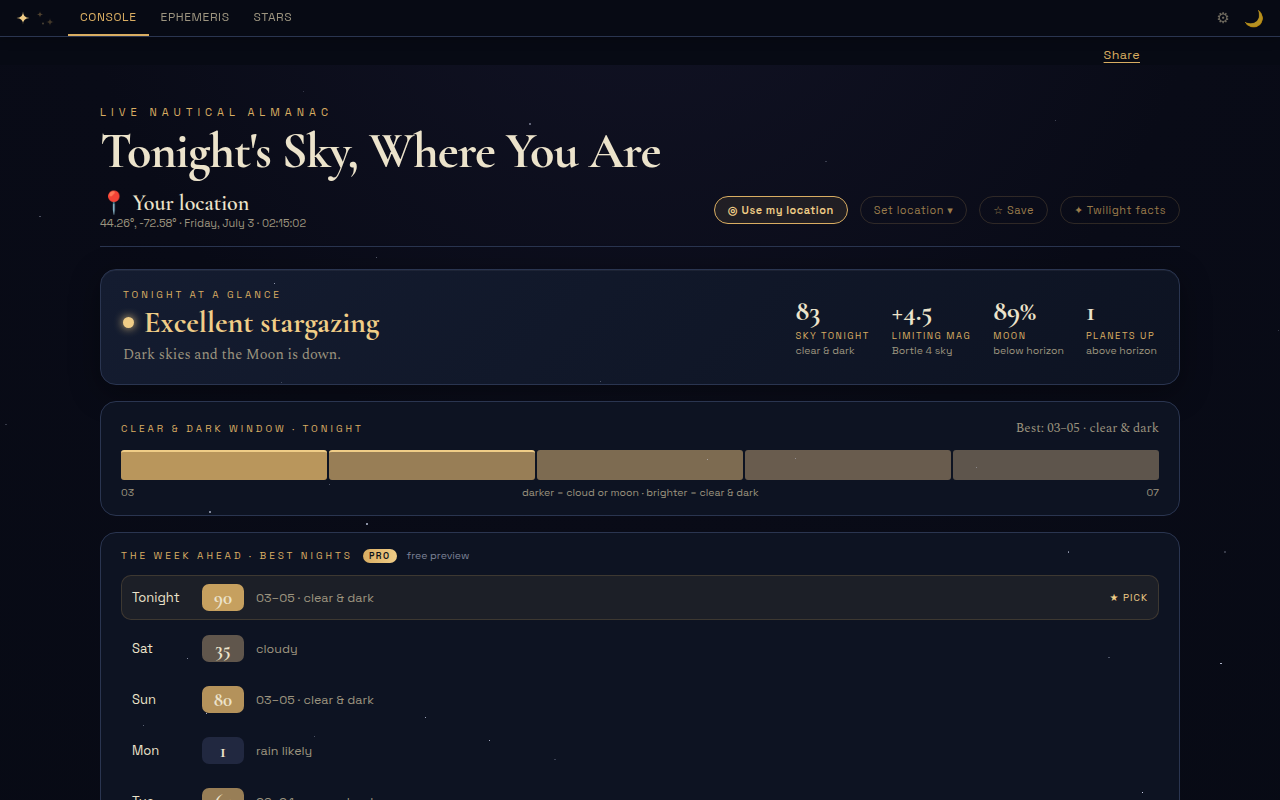
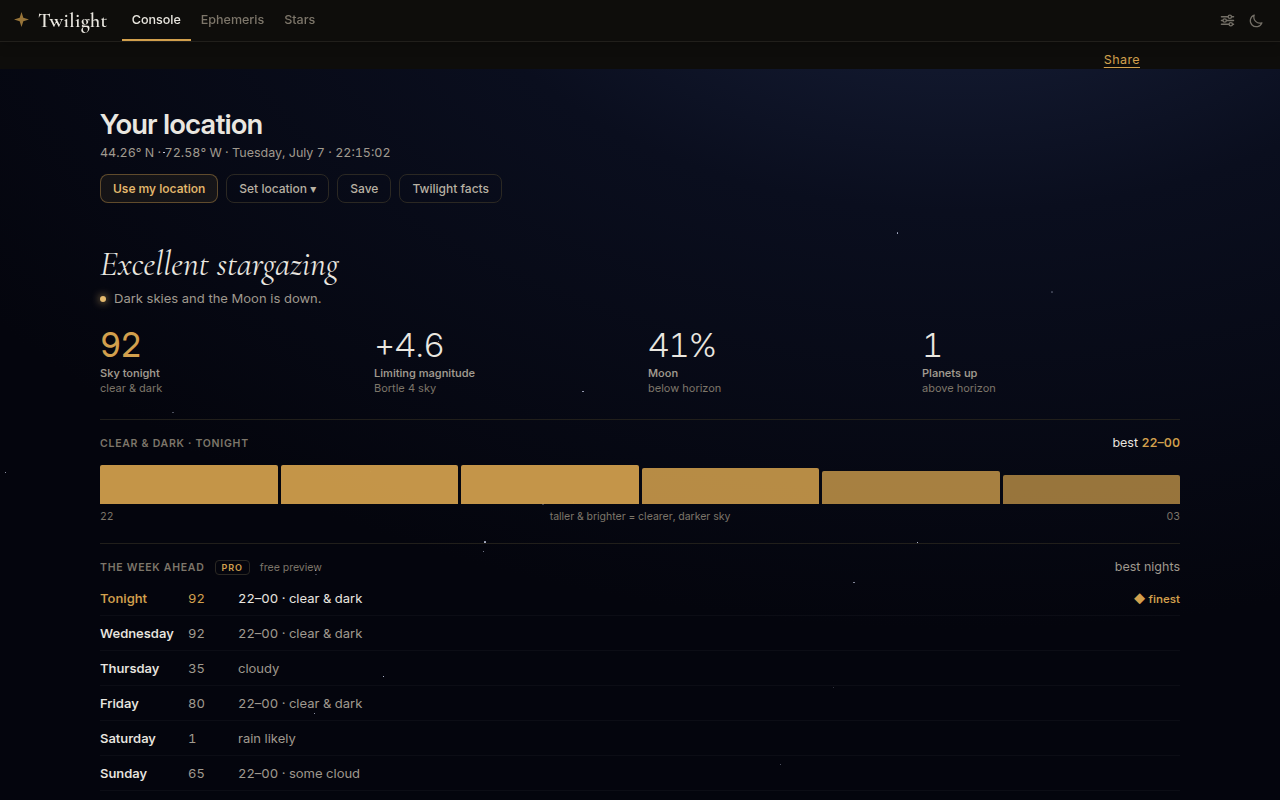
Refresh brand assets + unify page background across tabs (#40)
* Apply review fixes; show degrees on Civil twilight legend

Code-review fixes:
- searchPlaces: add a request-sequence guard so out-of-order geocoding
  responses can't render stale results.
- Clear results/query/message when the location picker is closed (no
  stale list on reopen).
- Remove dead tzFromLonState (only caller was the old ZIP lookup).
- Drop the now-unused onEphemeris prop from RealtimeTwilight.

Console legend: the Civil twilight box now shows its range like the
others — "Civil 0° to −6° (Golden Hour)". Bump SW to v28.

Claude-Session: https://claude.ai/code/session_017fcYpjo3ZFs8QJ4sChYVeG

* Star Finder: use a steady dark background (no live-sky glow)

The Stars tab has little content, so the time-varying dusk glow showed
across most of the page and read as washed out. Pin its background to
the static dark gradient (Console/Ephemeris keep the dusk glow). Bump
SW to v29.

Claude-Session: https://claude.ai/code/session_017fcYpjo3ZFs8QJ4sChYVeG

* Polish (Tier 1): attribution/privacy footer, SEO files, JSON-LD

- Add a global footer crediting the data sources (NOAA / Schlyter sun &
  moon models, Open-Meteo + GeoNames geocoding under CC BY 4.0) and a
  plain privacy note ("no tracking — only an anonymous visit count").
  Satisfies the CC-BY attribution requirement for the place search.
- Add robots.txt and sitemap.xml, and a JSON-LD WebApplication block in
  the head for richer search/SEO (non-executable data block — no CSP hash
[…]

diff --git a/index.html b/index.html
@@ -2,7 +2,7 @@
 <html lang="en">
 <head>
 <meta charset="utf-8" />
-<meta http-equiv="Content-Security-Policy" content="default-src 'self'; script-src 'self' 'sha256-I5UrnowgK6lNZe/gGZ0HgY7S7RJWpLjDF3wlbwMaMlc=' 'sha256-2WFykE7wvy9rfb6MuxdEk17+inylzAieA3wTF6WO6oc=' 'sha256-5iQLZZarga65DX0f9Sd0iyRmfHgUzB8mc6W/19dA1m0=' 'sha256-PJLBz/Bh1sCJfs09oc8Iz4ToPNKKt7eC1itnq9V/u6Y=' 'sha256-JAy4ooiqCu/2GUX/T0oycyxLZ4vrWZ1Xwxtepo5wmOg='; style-src 'self' 'unsafe-inline'; img-src 'self' data:; font-src 'self'; connect-src 'self' https://geocoding-api.open-meteo.com https://api.open-meteo.com https://twilight-counter.ken-b39.workers.dev; manifest-src 'self'; worker-src 'self'; base-uri 'self'; form-action 'self'; object-src 'none'; upgrade-insecure-requests" />
+<meta http-equiv="Content-Security-Policy" content="default-src 'self'; script-src 'self' 'sha256-I5UrnowgK6lNZe/gGZ0HgY7S7RJWpLjDF3wlbwMaMlc=' 'sha256-2WFykE7wvy9rfb6MuxdEk17+inylzAieA3wTF6WO6oc=' 'sha256-5iQLZZarga65DX0f9Sd0iyRmfHgUzB8mc6W/19dA1m0=' 'sha256-3t5FY0T5jGi3GwSxNaF6U8RwmlH9OSax1bK5pQtJSak=' 'sha256-JAy4ooiqCu/2GUX/T0oycyxLZ4vrWZ1Xwxtepo5wmOg='; style-src 'self' 'unsafe-inline'; img-src 'self' data:; font-src 'self'; connect-src 'self' https://geocoding-api.open-meteo.com https://api.open-meteo.com https://twilight-counter.ken-b39.workers.dev; manifest-src 'self'; worker-src 'self'; base-uri 'self'; form-action 'self'; object-src 'none'; upgrade-insecure-requests" />
 <meta name="viewport" content="width=device-width, initial-scale=1, viewport-fit=cover" />
 <meta name="theme-color" content="#070a14" />
 <title>Twilight — Live Sky Dashboard & Twilight Ephemeris</title>
@@ -1406,6 +1406,12 @@ const C = {
   line: "var(--line)",
   base: "var(--bg)"
 };
+/* Shared page backdrop: a cool night-sky wash — deep navy glow fading to
+   near-black blue. Deliberately independent of --bg/--bg-glow-2 (which stay
+   warm for panels and cards) so the page's negative space reads as night
+   sky while content surfaces keep their candle-lit warmth. Used across
+   Console, Ephemeris, and Stars so all three tabs share one backdrop. */
+const PAGE_BG = "radial-gradient(1200px 760px at 75% -10%, #1b2440 0%, #0a0e1e 45%, #04050d 100%)";
 const PHASE_META = {
   day: {
     name: "Daylight",
@@ -1936,9 +1942,9 @@ function RealtimeTwilight({ redMode } = {}) {
   const darkenTo = (c, k) => lerpC(c, "#04050c", k);
   // Live sky glow only once the sun is at/below the horizon (twilight & night);
   // by day, keep the original dark background for full contrast.
-  const pageBg = (redMode || live.alt > 0)
+  const pageBg = redMode
     ? "radial-gradient(120% 80% at 50% -10%, var(--bg-glow) 0%, var(--bg) 55%)"
-    : `radial-gradient(135% 92% at 50% -12%, ${darkenTo(live.sky.h, 0.48)} 0%, ${darkenTo(live.sky.m, 0.64)} 34%, var(--bg) 72%)`;
+    : PAGE_BG;
   return React.createElement("div", {
     style: {
       minHeight: "100vh",
@@ -3198,7 +3204,7 @@ function TwilightEphemeris({ redMode } = {}) {
   const eSky = (eValid && eAlt <= 0) ? skyColors(eAlt) : null;
   const pageBg = eSky
     ? `radial-gradient(1200px 760px at 75% -12%, ${lerpC(eSky.h, "#04050c", 0.5)} 0%, ${lerpC(eSky.m, "#04050c", 0.66)} 28%, var(--bg) 60%, #05060f 100%)`
-    : "radial-gradient(1200px 700px at 75% -10%,var(--bg-glow-2) 0%,var(--bg) 55%,#05060f 100%)";
+    : PAGE_BG;
   return /*#__PURE__*/React.createElement("div", {
     style: {
       minHeight: "100vh",
@@ -3870,7 +3876,7 @@ function StarFinder({ redMode } = {}) {
   );
   // Star Finder keeps a steady dark background (it has little content, so a
   // time-varying glow shows too much) — no live-sky tint here.
-  const pageBg = "radial-gradient(120% 80% at 50% -10%, var(--bg-glow) 0%, var(--bg) 55%)";
+  const pageBg = PAGE_BG;
   return React.createElement("div", {
     style: { minHeight: "100vh", width: "100%", overflowX: "hidden", position: "relative", background: pageBg, color: C.ink, fontFamily: "var(--font-body)", padding: "clamp(14px,3.5vw,40px)" }
   },

diff --git a/sw.js b/sw.js
@@ -1,4 +1,4 @@
-const CACHE = 'twilight-v41';
+const CACHE = 'twilight-v44';
 const ASSETS = [
   '/',
   '/index.html',

diff --git a/CLAUDE.md b/CLAUDE.md
@@ -1,0 +1,167 @@
+# Twilight — project memory
+
+Single-file PWA for stargazing / celestial navigation, live at **twilyte.info**
+(GitHub Pages, repo `bergeronK/twilight`). This file is read automatically at
+the start of every Claude Code session in this repo — keep it current so a
+fresh session (or a Cowork session) never has to re-derive project state.
+
+## What this app is
+
+Three tabs, one `index.html`, no build step:
+- **Console** — live sky dashboard for right now: sun/moon/planet positions,
+  twilight countdowns, sextant window, the "Clear & Dark" observing score
+  (tonight + hourly strip + 7-night Pro planner), a curiosities/almanac card.
+- **Ephemeris** — twilight times for any date/place, solar altitude chart,
+  iCal/CSV export, upcoming sky events.
+- **Stars** — navigational stars up now, recommended 3-star fix, compass dial.
+
+## Architecture
+
+- **Single HTML file**, React 18 (production build) inlined, `React.createElement`
+  only — no JSX, no bundler. Exactly **5 executable `<script>` blocks** (a 6th
+  `<script type="application/ld+json">` is non-executable and not counted).
+- **Strict CSP** via `<meta http-equiv>` with **SHA-256 hashes** of those 5
+  scripts. Edit any inline script → hashes go stale → CSP silently blocks
+  the app ("Starting Twilight…" hang, no console error). **Always run the
+  hash-recompute step before committing** (see Build workflow below).
+- **Design tokens**: all color/type driven by `:root` CSS custom properties
+  + a `C` object that mirrors them for JS. Two independent color systems:
+  - `--bg`, `--surface`, `--accent`, etc. — warm near-black, used by panels,
+    cards, buttons. Intentionally warm ("candle-lit instrument").
+  - `PAGE_BG` (a JS constant, not a CSS var) — the page backdrop wash, a
+    cool navy-to-blue-black radial gradient, deliberately independent of the
+    warm tokens so panels stay warm while the page's negative space reads
+    as night sky. Shared across all three tabs.
+  - Typography: Inter for everything functional (labels, numerals, UI, body);
+    Cormorant Garamond reserved only for the wordmark and "voice" moments
+    (verdict lines, almanac headings) — never for data or controls.
+  - **Design rule**: bordered/filled containers are reserved for actionable
+    controls (inputs, buttons, toggles). Read-only content is flat, separated
+    by hairlines only. If you're tempted to put a box around informational
+    text, don't.
+- **prefStore**: external store (`useSyncExternalStore` pattern) holding
+  `h24`, `bortle`/`bortleMode` (auto|manual), `pro`. Persisted to
+  `localStorage` under `tw_*` keys.
+- **Service worker** (`sw.js`): network-first navigations, stale-while-revalidate
+  assets. `CACHE` version string must be bumped on every asset-affecting change.
+  Skips registration entirely when `window.Capacitor` is present (native shell
+  bundles assets itself; nothing for a SW to cache there).
+- **`native/`**: Capacitor 8 shell (iOS + Android), documented in
+  `native/README.md`. `npm run sync` stages the web app into `native/www/`.
+  RevenueCat IAP is fully wired in `index.html` (`RC_KEYS`, `rcPlugin()`,
+  purchase/restore flow) but **inert until a public SDK key is set** — see
+  "Pending" below.
+- **`scripts/verify-build.js`**: CI build guard — asserts exactly 5 inline
+  scripts, syntax-checks them, and asserts the CSP hashes match. Runs in
+  `.github/workflows/build-guard.yml` on every push/PR.
+
+## Build workflow (do this every time you edit `index.html`)
+
+```
+node scripts/verify-build.js        # will fail if hashes are stale
+```
+
+If it fails (or you touched any inline `<script>` content), recompute hashes.
+There's no committed script for this — the working pattern used all session is:
+read the 5 `<script>` blocks, SHA-256 each with `crypto.createHash('sha256')`,
+base64-encode, and rewrite the `script-src` line in the CSP `<meta>` tag. A
+throwaway Node script doing exactly that (find `<script>...</script>` regex,
+hash, replace) is the fastest path — write one if it doesn't exist in your
+scratchpad.
+
+Also bump `CACHE` in `sw.js` (and mirror any new/changed asset filename into
+its `ASSETS` array and into `native/sync-web.js`'s file list) whenever a
+cached asset changes.
+
+## Git workflow — a landmine to know about
+
+This repo squash-merges every PR into `main`. That means **the dev branch's
+own commit objects for already-merged work never match `main`'s squash
+commit**, even though content is identical. Consequence: `git merge
+origin/main` into the dev branch will show conflicts on files that were
+touched by a just-merged PR, purely because git's merge-base is stale, not
+because content actually differs.
+
+**Fix, every time, before pushing new work**: `git fetch origin main && git
+merge origin/main --no-edit`. If it conflicts, first verify with `git diff
+origin/main <dev-branch-tip> -- <file>` that the dev branch is already a
+strict superset of main (it almost always is, since PRs are additive) — then
+resolve with `git checkout --ours <file>` and commit. Confirm afterward with
+`git diff origin/main HEAD` that the resulting diff is *exactly* the new
+work, nothing more/less.
+
+## Deploy
+
+**GitHub Pages currently deploys production (twilyte.info) from the dev
+branch `claude/web-app-style-review-x4rrz4`, not from `main`.** This means
+every push to that branch goes live immediately, before PR review or merge.
+This has been flagged to the owner as worth switching (Settings → Pages →
+Branch: `main`) so production is merge-gated instead of push-gated. Not yet
+done as of this writing — confirm current state before assuming either way.
+
+The Pages deploy job has intermittently failed on first attempt with a
+generic "Deployment failed, try again later" (platform-side flake, not a
+content problem) — re-running the full workflow (not just the failed job)
+has fixed it every time.
+
+## Testing without a real browser session
+
+No local dev server is preconfigured. Working pattern: `python3 -m http.server
+8137 --directory /path/to/repo` (detached via `setsid ... &`, since plain
+backgrounding gets reaped), then drive it with Playwright
+(`/opt/node22/lib/node_modules/playwright`, Chromium at
+`/opt/pw-browsers/chromium-1194/chrome-linux/chrome`). The sandbox's network
+policy blocks `api.open-meteo.com` and the visitor-counter Worker directly —
+use Playwright route interception to mock the forecast API response when you
+need to test anything forecast-dependent (clear-and-dark score, week
+planner, screenshots). `page.clock.install()` + `context.setGeolocation()`
+are the reliable way to get a reproducible "tonight" state for screenshots.
+
+## Status as of this writing
+
+**Shipped & merged to `main`:** perf/CI/PWA polish (Tier 1/2), Clear & Dark
+score v1/v1.1/Pro week planner, auto-Bortle-from-location (bundled
+SimpleMaps city dataset, no live API), onboarding/copy fixes, Capacitor
+native shell v1 (iOS+Android, geolocation, icons/splash), RevenueCat IAP
+wiring (inert without a key), full visual restyle ("field instrument" design
+system) across all three tabs.
+
+**Open PR, not yet merged (check `gh pr list` / GitHub UI for current
+state):** brand-asset refresh (install screenshots + og-image regenerated
+for the new look) + the blue page-background unification/cooling. Small,
+low-risk, mostly binary diffs.
+
+**Blocked on the repo owner, not on engineering:**
+- RevenueCat public SDK key (`appl_…`) → drop into `RC_KEYS.ios` in
+  `index.html` to activate the purchase flow. Owner has an Apple Developer
+  account as of this writing but has not yet created the App Store Connect
+  app record, the IAP product, or the RevenueCat project.
+- Pages deploy-source switch (see Deploy section above).
+- Privacy Policy URL for App Store Connect (unconfirmed whether twilyte.info
+  has one yet).
+- Actual Xcode build/signing/TestFlight upload — needs a Mac; nothing to do
+  here until the owner has one available.
+
+**Backlog, not started, no blockers:**
+- SEO location landing pages ("twilight times in [city]").
+- Alerts (clear-and-dark-tonight push notifications) — needs a backend
+  decision (Cloudflare Worker + Cron Triggers is the natural fit given the
+  existing visitor-counter Worker).
+- AR sky view / celestial-nav "Navigator" sight-reduction pack — bigger,
+  scoped-but-unstarted differentiators from earlier market research.
+- App Store screenshot regeneration at Apple's exact required device
+  dimensions (differ from the PWA manifest sizes currently used).
+- App Store Connect prep docs (App Privacy questionnaire answers, age
+  rating, export compliance) — straightforward given the app's "no
+  tracking, anonymous visit count only" data story, just not yet written.
+
+## Conventions established this session (follow unless told otherwise)
+
+- One PR per logical change; squash-merge; always `git fetch` + reconcile
+  before pushing (see Git workflow above).
+- Commit messages and PR bodies are the durable record of *why* — write them
+  as if this file didn't exist, since PR history outlives any one session.
+- Screenshots/mockups before big visual changes; ship real Playwright
+  screenshots of the actual app in PR descriptions, not descriptions of intent.
+- Don't guess at colors/values when matching an existing look — sample actual
+  rendered pixels (Playwright screenshot + PIL) to confirm before and after.
